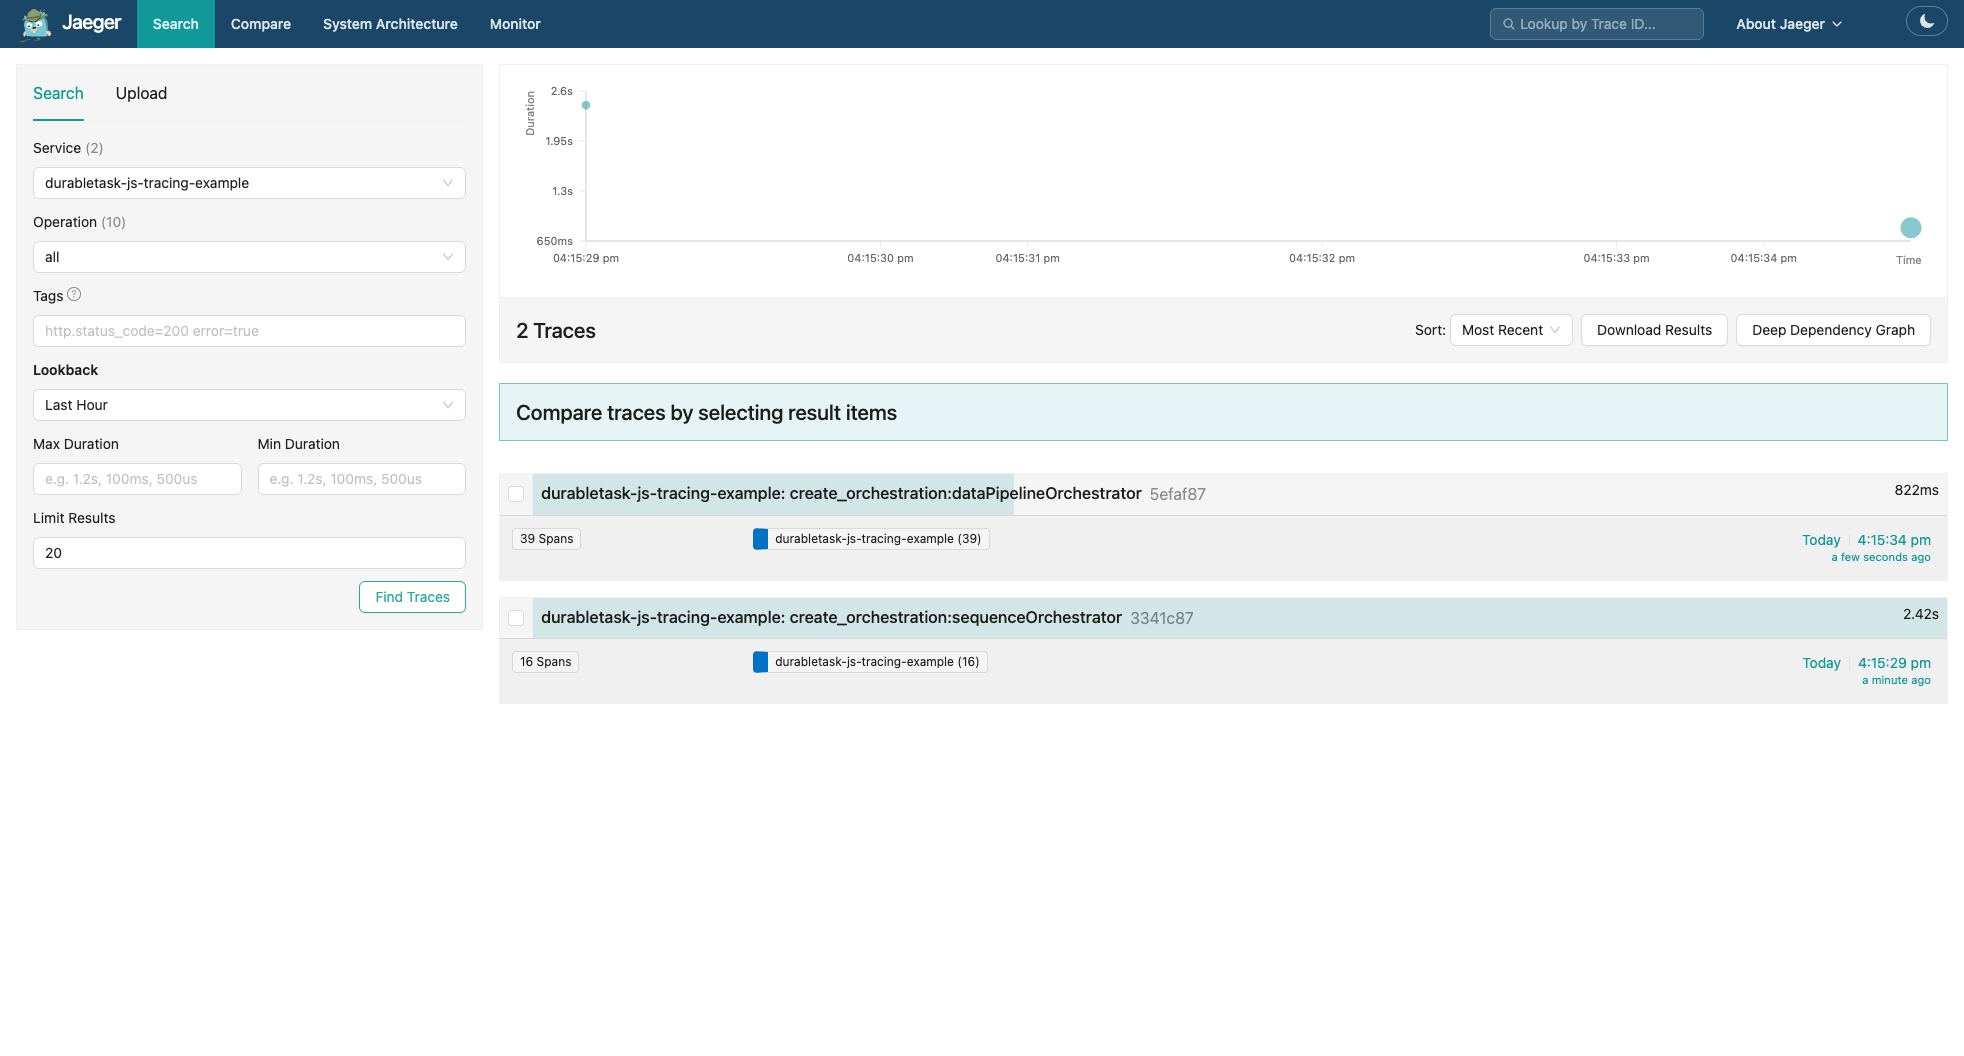
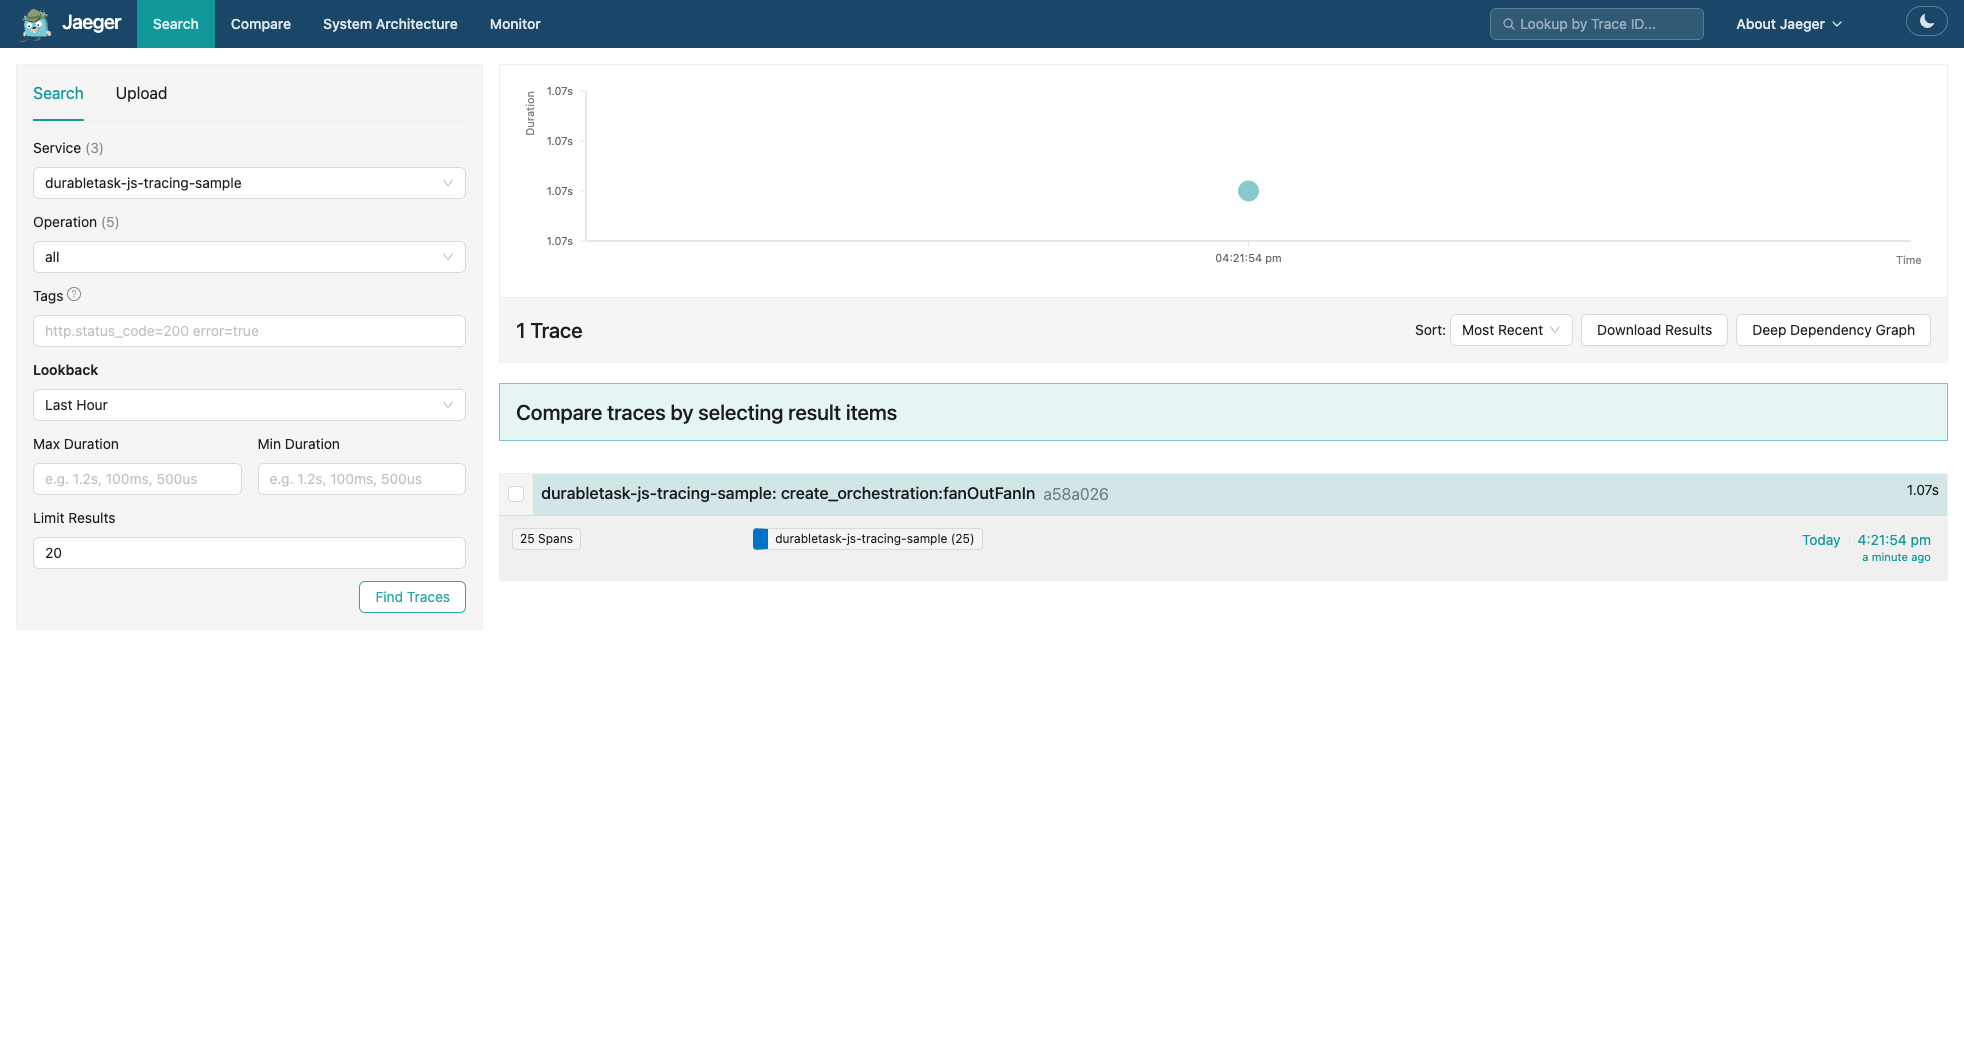
docs: rewrite sample to FanOutFanIn pattern matching Java PR, update screenshots
Rewrote the distributed-tracing sample to match the Java SDK's tracing
sample (FanOutFanIn): 1s timer → 5× parallel GetWeather → CreateSummary.
This produces a trace structure directly comparable to the Java PR screenshots.

Updated Jaeger screenshots to match the Java PR pattern:
- jaeger-trace-list.png: Trace search showing FanOutFanIn trace (25 spans)
- jaeger-full-trace-detail.png: Full trace detail with span hierarchy
- jaeger-span-detail.png: Span detail showing attributes (aligned with .NET)

diff --git a/examples/azure-managed/distributed-tracing/index.ts b/examples/azure-managed/distributed-tracing/index.ts
@@ -26,7 +26,7 @@ const otlpEndpoint = process.env.OTEL_EXPORTER_OTLP_ENDPOINT || "http://localhos
 
 const sdk = new NodeSDK({
   resource: new Resource({
-    [ATTR_SERVICE_NAME]: "durabletask-js-tracing-example",
+    [ATTR_SERVICE_NAME]: "durabletask-js-tracing-sample",
   }),
   traceExporter: new OTLPTraceExporter({
     url: `${otlpEndpoint}/v1/traces`,
@@ -50,13 +50,9 @@ import { TOrchestrator } from "@microsoft/durabletask-js/dist/types/orchestrator
 import { whenAll } from "@microsoft/durabletask-js/dist/task";
 
 // --------------------------------------------------------------------------
-// 3. Application code
+// 3. Application code — FanOutFanIn pattern (matches Java tracing sample)
 // --------------------------------------------------------------------------
 (async () => {
-  // Use ConsoleLogger so structured log events (with event IDs and categories) are
-  // printed to the console by default, similar to .NET's default ILogger<T> output.
-  // For production, consider using createAzureLogger() which integrates with @azure/logger
-  // and respects the AZURE_LOG_LEVEL environment variable.
   const sdkLogger = new ConsoleLogger();
 
   // --- Configuration ---
@@ -77,101 +73,44 @@ import { whenAll } from "@microsoft/durabletask-js/dist/task";
 
   // --- Activity definitions ---
 
-  /** Simulates fetching data from an external service. */
-  const fetchData = async (_ctx: ActivityContext, source: string): Promise<string> => {
-    console.log(`  [fetchData] Fetching data from "${source}"...`);
-    // Simulate network latency
-    await new Promise((r) => setTimeout(r, 300 + Math.random() * 200));
-    return `data-from-${source}`;
+  /** Simulates getting weather for a city. */
+  const getWeather = async (_ctx: ActivityContext, city: string): Promise<string> => {
+    console.log(`  [GetWeather] Getting weather for: ${city}`);
+    await new Promise((r) => setTimeout(r, 20));
+    return `${city}=72F`;
   };
 
-  /** Simulates transforming a piece of data. */
-  const transformData = async (_ctx: ActivityContext, input: string): Promise<string> => {
-    console.log(`  [transformData] Transforming "${input}"...`);
-    await new Promise((r) => setTimeout(r, 200));
-    return `transformed(${input})`;
+  /** Aggregates weather results into a summary. */
+  const createSummary = async (_ctx: ActivityContext, input: string): Promise<string> => {
+    console.log(`  [CreateSummary] Creating summary for: ${input}`);
+    return `Weather Report: ${input}`;
   };
 
-  /** Simulates persisting results to a database. */
-  const saveResults = async (_ctx: ActivityContext, results: string[]): Promise<number> => {
-    console.log(`  [saveResults] Saving ${results.length} results...`);
-    await new Promise((r) => setTimeout(r, 150));
-    return results.length;
-  };
-
-  // --- Orchestrator: data pipeline (chaining + fan-out/fan-in) ---
+  // --- Orchestrator: Fan-Out/Fan-In with timer ---
 
   /**
-   * Demonstrates a realistic data-processing pipeline that produces a rich
-   * distributed trace:
+   * Demonstrates a Fan-Out/Fan-In pattern that produces a rich trace:
    *
-   * 1. Fan-out – fetch data from multiple sources in parallel.
-   * 2. Fan-out – transform each result in parallel.
-   * 3. Chain  – save all transformed results.
-   *
-   * The resulting trace will show:
-   *   create_orchestration → orchestration (server)
-   *       ├─ activity:fetchData (×N, parallel)
-   *       ├─ activity:transformData (×N, parallel)
-   *       └─ activity:saveResults
+   *   create_orchestration:FanOutFanIn (Producer)
+   *     └─ orchestration:FanOutFanIn (Server)
+   *          ├─ orchestration:FanOutFanIn:timer (Internal, ~1s)
+   *          ├─ activity:getWeather (Client+Server, ×5 parallel)
+   *          └─ activity:createSummary (Client+Server)
    */
-  const dataPipelineOrchestrator: TOrchestrator = async function* (
-    ctx: OrchestrationContext,
-  ): any {
-    const sources: string[] = yield ctx.callActivity(getDataSources);
+  const fanOutFanIn: TOrchestrator = async function* (ctx: OrchestrationContext): any {
+    // Timer: wait 1 second (demonstrates timer span with creation-to-fired duration)
+    const timerDelay = new Date(ctx.currentUtcDateTime.getTime() + 1000);
+    yield ctx.createTimer(timerDelay);
 
-    // Step 1 – fan-out: fetch from all sources in parallel
-    const fetchTasks = [];
-    for (const source of sources) {
-      fetchTasks.push(ctx.callActivity(fetchData, source));
-    }
-    const rawData: string[] = yield whenAll(fetchTasks);
+    // Fan-out: schedule parallel weather lookups
+    const cities = ["Seattle", "Tokyo", "London", "Paris", "Sydney"];
+    const tasks = cities.map((city) => ctx.callActivity(getWeather, city));
+    const results: string[] = yield whenAll(tasks);
 
-    // Step 2 – fan-out: transform all fetched data in parallel
-    const transformTasks = [];
-    for (const raw of rawData) {
-      transformTasks.push(ctx.callActivity(transformData, raw));
-    }
-    const transformed: string[] = yield whenAll(transformTasks);
+    // Aggregate results
+    const summary: string = yield ctx.callActivity(createSummary, results.join(", "));
 
-    // Step 3 – chain: save all results
-    const savedCount: number = yield ctx.callActivity(saveResults, transformed);
-
-    return {
-      sourcesProcessed: sources.length,
-      resultsSaved: savedCount,
-      data: transformed,
-    };
-  };
-
-  /** Returns the list of data sources to process. */
-  const getDataSources = async (_ctx: ActivityContext): Promise<string[]> => {
-    return ["users-api", "orders-api", "inventory-api", "analytics-api"];
-  };
-
-  // --- Orchestrator: simple sequence with timer (for a cleaner trace comparison) ---
-
-  const sequenceOrchestrator: TOrchestrator = async function* (
-    ctx: OrchestrationContext,
-  ): any {
-    const cities = ["Tokyo", "Seattle", "London"];
-    const greetings: string[] = [];
-    for (const city of cities) {
-      const greeting: string = yield ctx.callActivity(greetCity, city);
-      greetings.push(greeting);
-    }
-
-    // Wait briefly before returning (demonstrates timer span in trace)
-    const delay = new Date(ctx.currentUtcDateTime.getTime() + 2000);
-    yield ctx.createTimer(delay);
-
-    return greetings;
-  };
-
-  const greetCity = async (_ctx: ActivityContext, city: string): Promise<string> => {
-    console.log(`  [greetCity] Greeting ${city}`);
-    await new Promise((r) => setTimeout(r, 100));
-    return `Hello, ${city}!`;
+    return summary;
   };
 
   // --- Create client & worker ---
@@ -195,43 +134,30 @@ import { whenAll } from "@microsoft/durabletask-js/dist/task";
 
     client = clientBuilder.build();
     worker = workerBuilder
-      .addOrchestrator(dataPipelineOrchestrator)
-      .addOrchestrator(sequenceOrchestrator)
-      .addActivity(fetchData)
-      .addActivity(transformData)
-      .addActivity(saveResults)
-      .addActivity(getDataSources)
-      .addActivity(greetCity)
+      .addOrchestrator(fanOutFanIn)
+      .addActivity(getWeather)
+      .addActivity(createSummary)
       .build();
 
     // --- Start worker ---
     console.log("Starting worker...");
     await worker.start();
-    // Allow the worker time to establish the gRPC stream with the scheduler.
-    // worker.start() returns before the connection is fully established.
     await new Promise((r) => setTimeout(r, 2000));
-    console.log("Worker started.");
+    console.log("Worker started with OpenTelemetry tracing.");
 
-    // --- Run orchestrations ---
+    // --- Run orchestration ---
+    console.log("\nScheduling FanOutFanIn orchestration...");
+    const instanceId = await client.scheduleNewOrchestration(fanOutFanIn);
+    console.log(`Started orchestration: ${instanceId}`);
 
-    // 1) Sequence orchestration
-    console.log("\n=== Sequence Orchestration ===");
-    const seqId = await client.scheduleNewOrchestration(sequenceOrchestrator);
-    console.log(`Scheduled: ${seqId}`);
-    const seqState = await client.waitForOrchestrationCompletion(seqId, true, 60);
-    console.log(`Completed – result: ${seqState?.serializedOutput}`);
+    console.log("Waiting for completion...");
+    const state = await client.waitForOrchestrationCompletion(instanceId, true, 60);
+    console.log(`Status: ${state?.runtimeStatus}`);
+    console.log(`Result: ${state?.serializedOutput}`);
 
-    // 2) Data pipeline orchestration (fan-out/fan-in)
-    console.log("\n=== Data Pipeline Orchestration ===");
-    const pipelineId = await client.scheduleNewOrchestration(dataPipelineOrchestrator);
-    console.log(`Scheduled: ${pipelineId}`);
-    const pipelineState = await client.waitForOrchestrationCompletion(pipelineId, true, 60);
-    console.log(`Completed – result: ${pipelineState?.serializedOutput}`);
-
-    console.log("\n=== All orchestrations completed! ===");
-    console.log(
-      `Open Jaeger UI at http://localhost:16686 and search for service "durabletask-js-tracing-example" to view traces.`,
-    );
+    console.log("\nView traces in Jaeger UI: http://localhost:16686");
+    console.log('  Search for service: durabletask-js-tracing-sample');
+    console.log("View orchestration in DTS Dashboard: http://localhost:8082");
   } catch (error) {
     console.error("Error:", error);
     process.exit(1);
@@ -239,8 +165,6 @@ import { whenAll } from "@microsoft/durabletask-js/dist/task";
     console.log("\nShutting down...");
     if (worker) await worker.stop();
     if (client) await client.stop();
-
-    // Flush remaining spans before exit
     await sdk.shutdown();
     console.log("Done.");
     process.exit(0);
